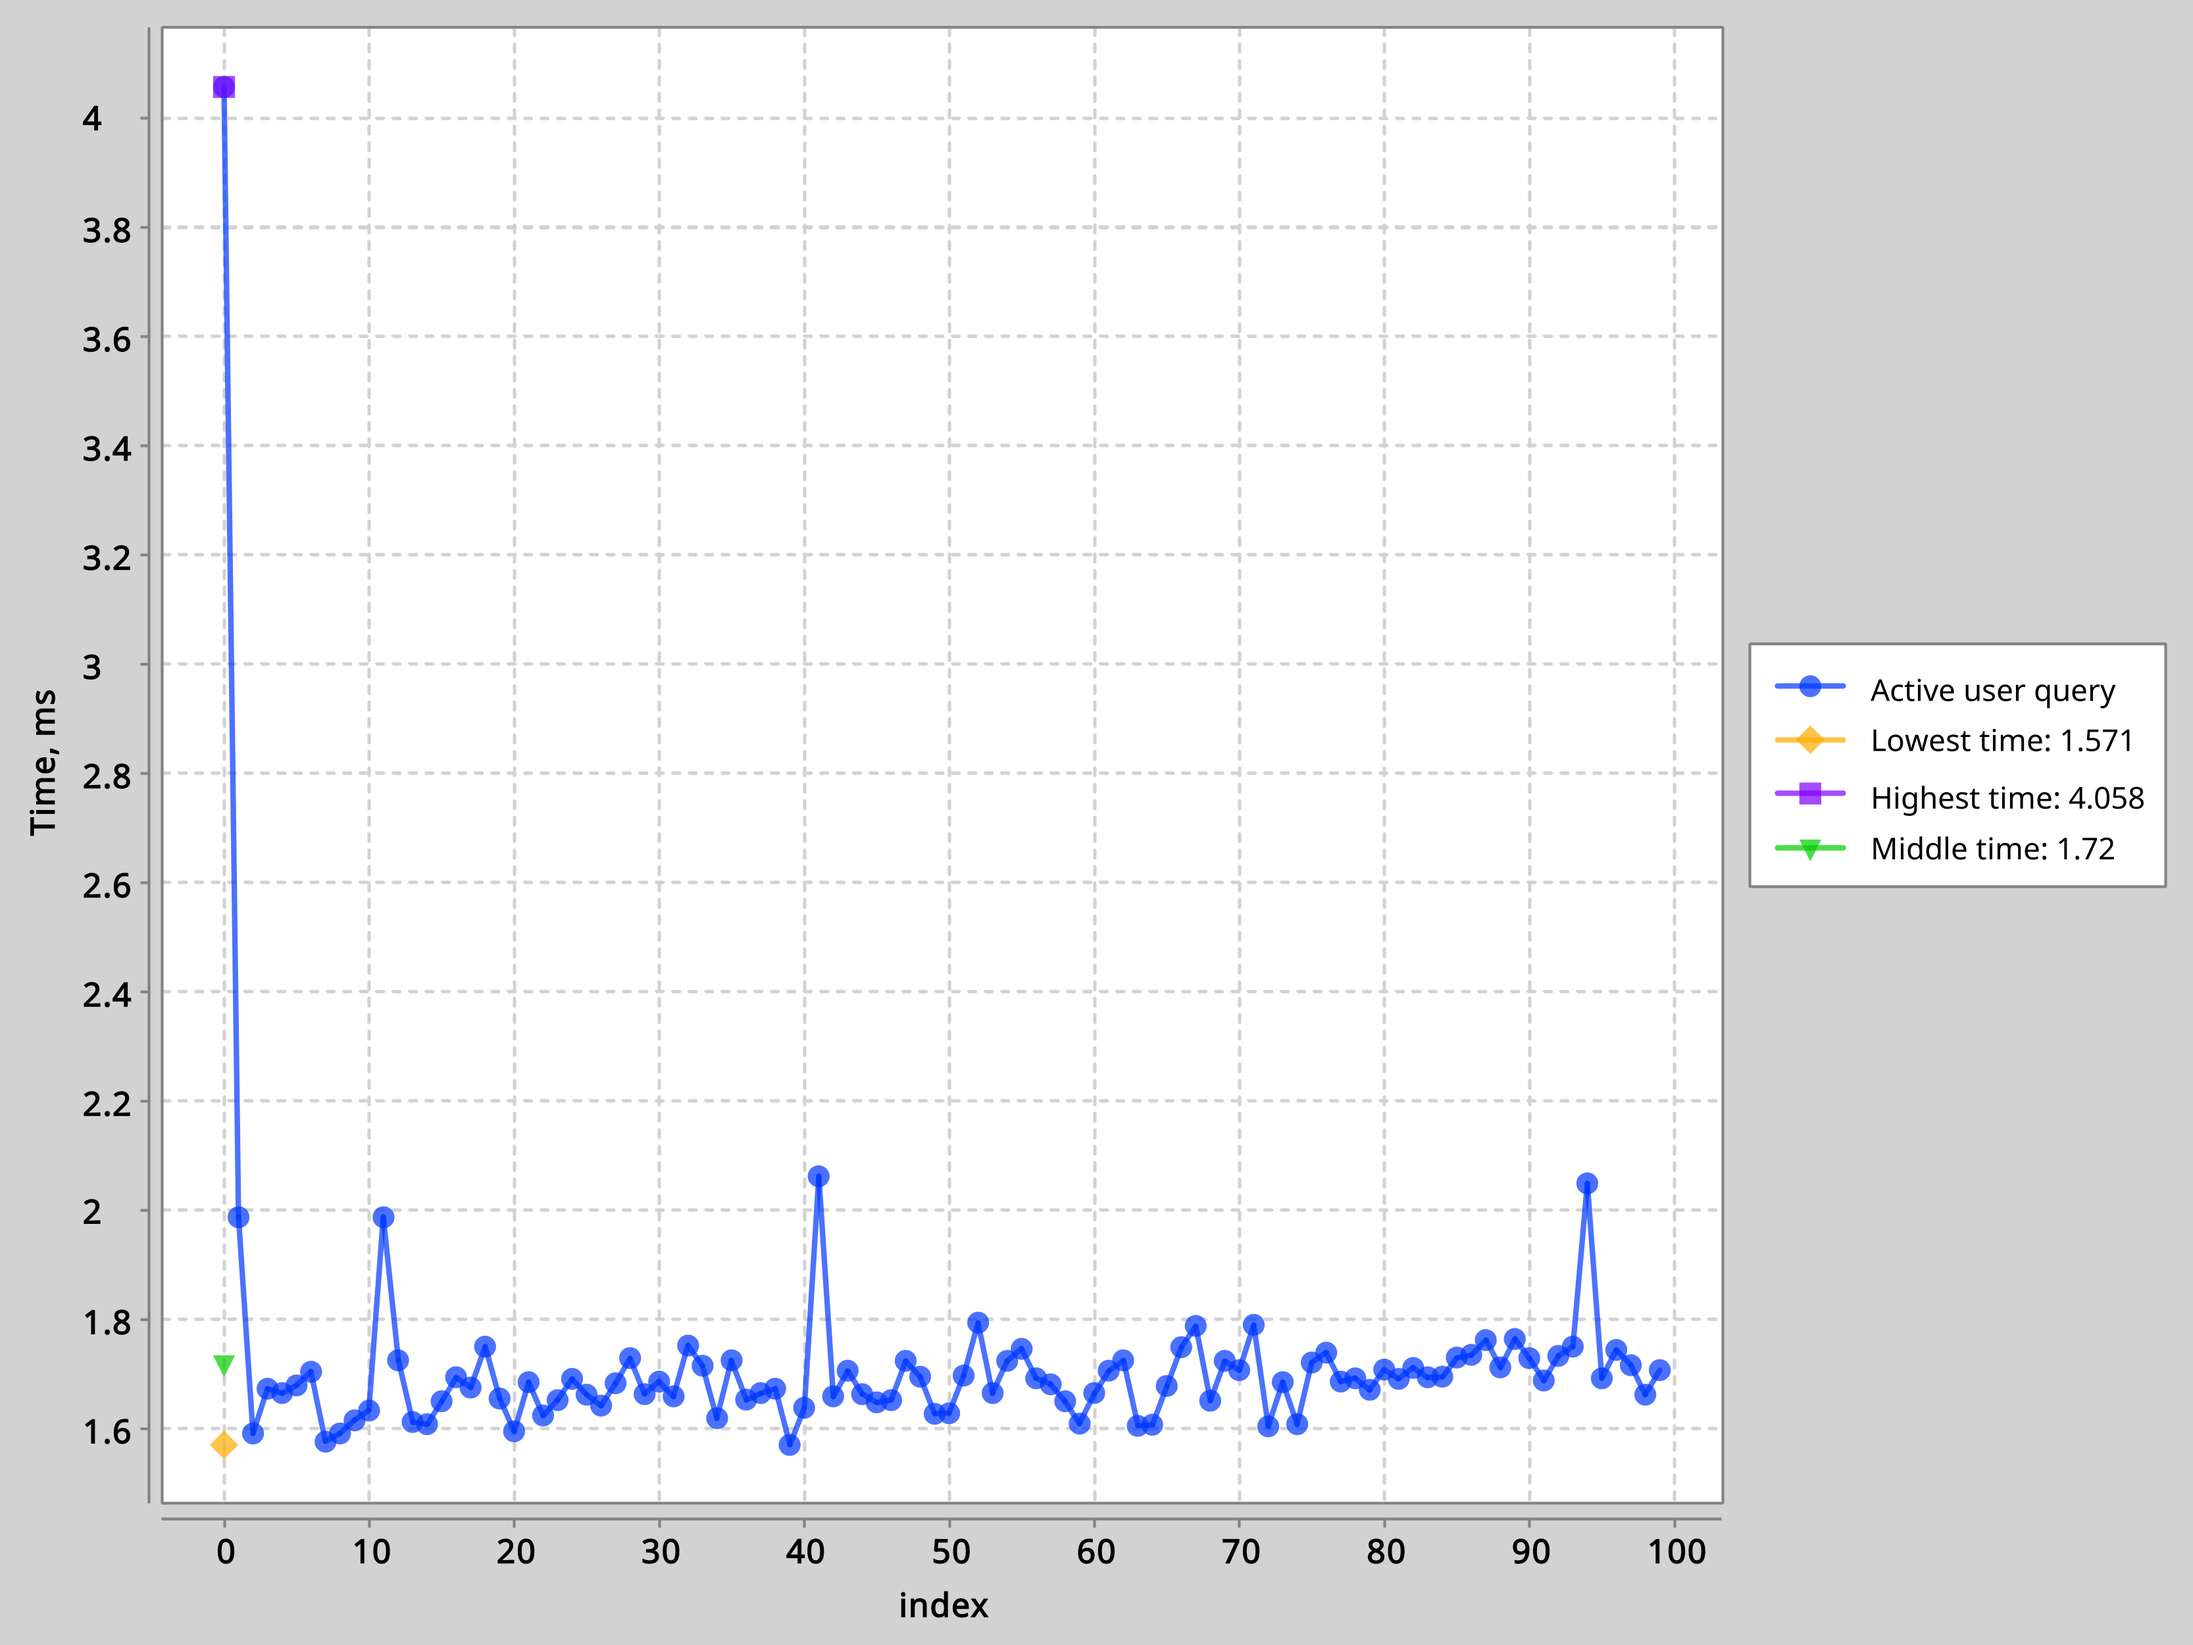
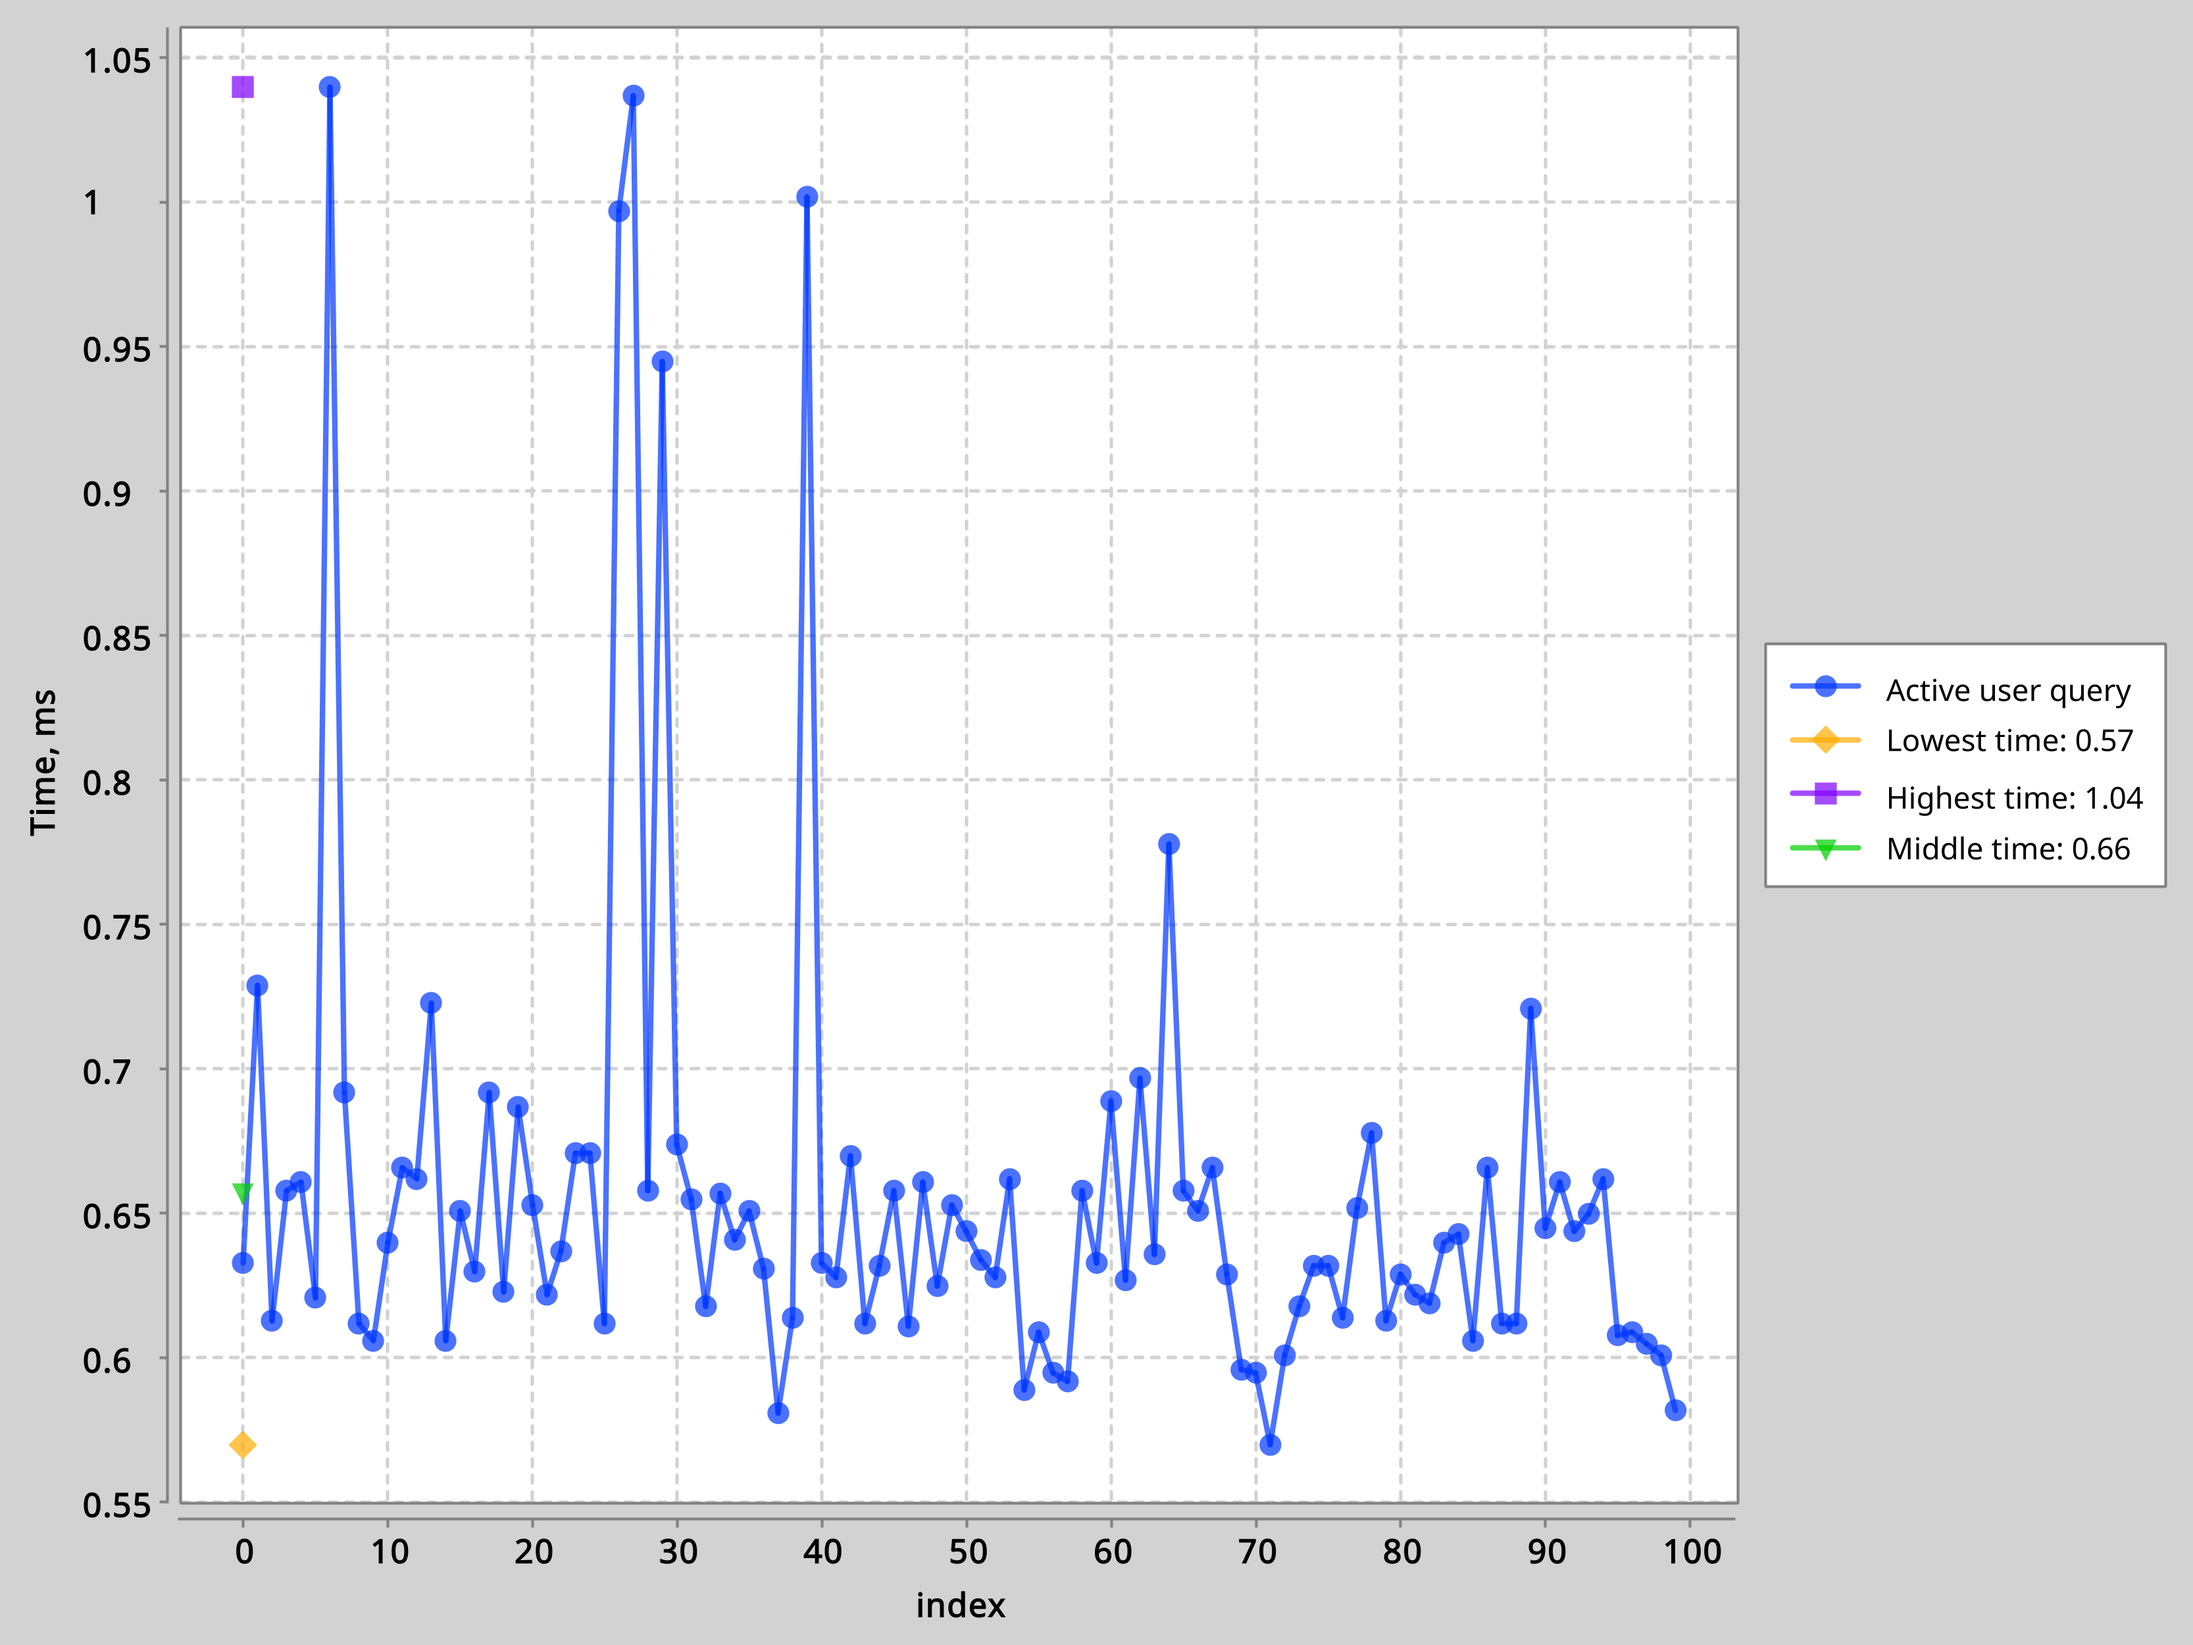
indexation added

diff --git a/whooshService/src/main/java/ru/medoedoed/services/WhooshService.java b/whooshService/src/main/java/ru/medoedoed/services/WhooshService.java
@@ -82,19 +82,11 @@ public class WhooshService {
     String query = (
             "EXPLAIN ANALYZE " +
                     "SELECT " +
-                    "sr.RequestID, " +
-                    "sr.Header AS RequestHeader, " +
-                    "sr.Body AS RequestBody, " +
-                    "sr.Date AS RequestDate, " +
-                    "sr.Solved, " +
-                    "srs.ResponseID, " +
-                    "srs.Header AS ResponseHeader, " +
-                    "srs.Body AS ResponseBody, " +
-                    "srs.Date AS ResponseDate " +
-                    "FROM SupportRequests sr " +
-                    "LEFT JOIN SupportResponses srs ON sr.RequestID = srs.RequestID " +
-                    "WHERE sr.UserID = ? " +
-                    "ORDER BY sr.Date, srs.Date;"
+                    "* " +
+                    "FROM SupportRequests srq " +
+                    "LEFT JOIN SupportResponses srp ON srq.RequestID = srp.RequestID " +
+                    "WHERE srq.UserID = ? " +
+                    "ORDER BY srq.Date, srp.Date;"
     );
 
     return executeQuery(query, userId);
@@ -113,12 +105,7 @@ public class WhooshService {
     String query = (
             "EXPLAIN ANALYZE " +
                     "SELECT " +
-                    "ScooterID, " +
-                    "ScooterNumber, " +
-                    "Longitude, " +
-                    "Latitude, " +
-                    "Available, " +
-                    "CurrentCharge " +
+                    "* " +
                     "FROM Scooters " +
                     "WHERE " +
                     "SQRT(POW(Longitude - ?, 2) + POW(Latitude - ?, 2)) <= ? ");
@@ -136,12 +123,11 @@ public class WhooshService {
     String query =
             ("EXPLAIN ANALYZE " +
                     "SELECT " +
-                    "    u.UserID, " +
-                    "    u.Name, " +
-                    "    SUM(o.Cost) AS TotalSpent " +
+                    "u.UserID, " +
+                    "SUM(o.Cost) AS TotalSpent " +
                     "FROM Orders o " +
                     "JOIN Users u ON o.UserID = u.UserID " +
-                    "GROUP BY u.UserID, u.Name " +
+                    "GROUP BY u.UserID " +
                     "ORDER BY TotalSpent DESC " +
                     "LIMIT 100;");
     return executeQuery(query);

diff --git a/whooshService/src/main/java/ru/medoedoed/charts/ChartSaver.java b/whooshService/src/main/java/ru/medoedoed/charts/ChartSaver.java
@@ -13,7 +13,7 @@ public class ChartSaver {
 
     int version = 1;
     while (new File(newFileName).exists()) {
-      newFileName = baseFileName.replace(".png(", version + ").png");
+      newFileName = baseFileName.replace(".png", version + ".png");
       version++;
 
     }

diff --git a/README.md b/README.md
@@ -28,3 +28,75 @@
 
 ## UML схема:
 ![image](uml.png)
+
+
+## Показатели производительности без индексации и с индексацией:
+
+### 1. Отобразить все заказы конкретного пользователя, где пользователь - параметр.
+
+<div style="display: flex;">
+    <div style="flex: 1; margin-right: 10px;">
+        <img src="charts/1task.png" style="width: 100%;" />
+        <p style="text-align: center;">Без индексации</p>
+    </div>
+    <div style="flex: 1; margin-left: 10px;">
+        <img src="charts/1task1.png" style="width: 100%;" />
+        <p style="text-align: center;">С индексацией</p>
+    </div>
+</div>
+
+### 2. Показать количество активных пользователей за месяц в течение последних 5 лет.
+
+<div style="display: flex;">
+    <div style="flex: 1; margin-right: 10px;">
+        <img src="charts/2task.png" style="width: 100%;" />
+        <p style="text-align: center;">Без индексации</p>
+    </div>
+    <div style="flex: 1; margin-left: 10px;">
+        <img src="charts/2task1.png" style="width: 100%;" />
+        <p style="text-align: center;">С индексацией</p>
+    </div>
+</div>
+
+### 3. Показать все сообщения из определенного респонса и отсортировать их по времени.
+
+<div style="display: flex;">
+    <div style="flex: 1; margin-right: 10px;">
+        <img src="charts/3task.png" style="width: 100%;" />
+        <p style="text-align: center;">Без индексации</p>
+    </div>
+    <div style="flex: 1; margin-left: 10px;">
+        <img src="charts/3task1.png" style="width: 100%;" />
+        <p style="text-align: center;">С индексацией</p>
+    </div>
+</div>
+
+### 4. Вывести все самокаты в определенной области.
+
+
+<div style="display: flex;">
+    <div style="flex: 1; margin-right: 10px;">
+        <img src="charts/4task.png" style="width: 100%;" />
+        <p style="text-align: center;">Без индексации</p>
+    </div>
+    <div style="flex: 1; margin-left: 10px;">
+        <img src="charts/4task1.png" style="width: 100%;" />
+        <p style="text-align: center;">С индексацией</p>
+    </div>
+</div>
+
+### 5. Показать топ 100 пользователей, потративших наибольшее количество денег.
+
+<div style="display: flex;">
+    <div style="flex: 1; margin-right: 10px;">
+        <img src="charts/5task.png" style="width: 100%;" />
+        <p style="text-align: center;">Без индексации</p>
+    </div>
+    <div style="flex: 1; margin-left: 10px;">
+        <img src="charts/5task1.png" style="width: 100%;" />
+        <p style="text-align: center;">С индексацией</p>
+    </div>
+</div>
+
+
+
